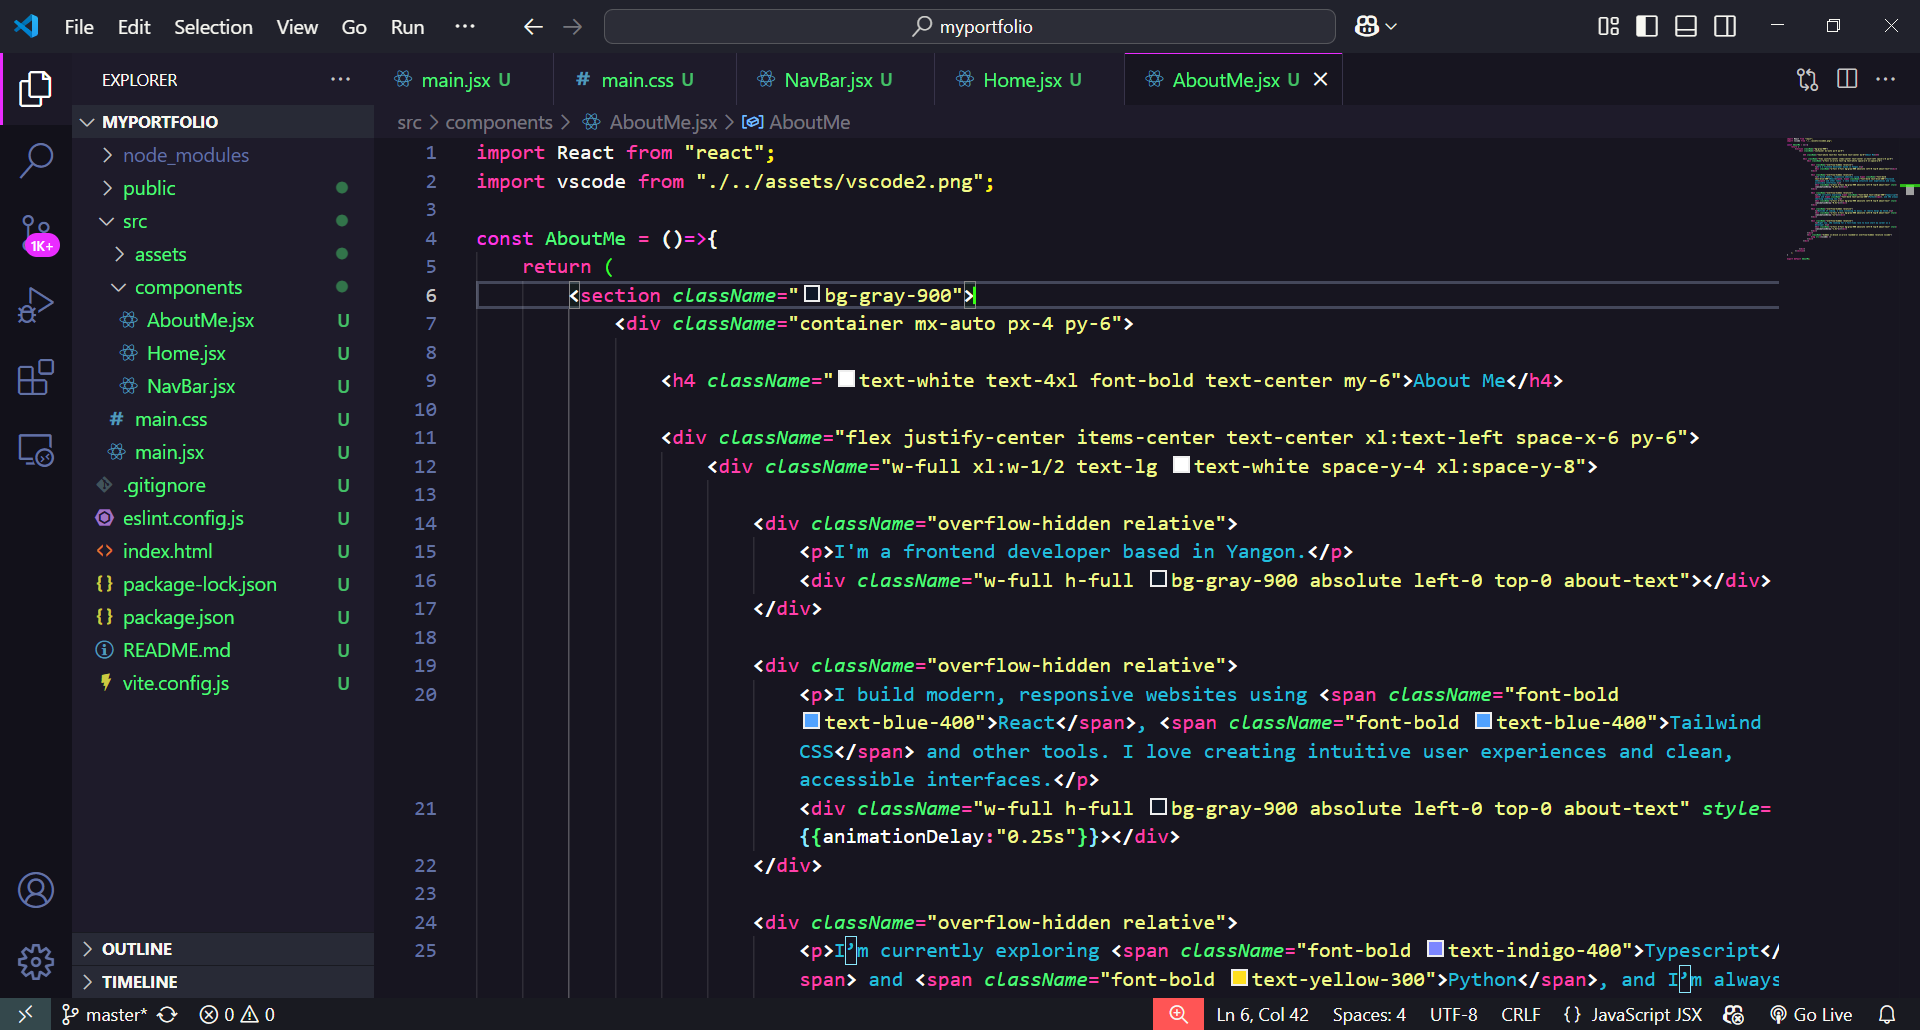
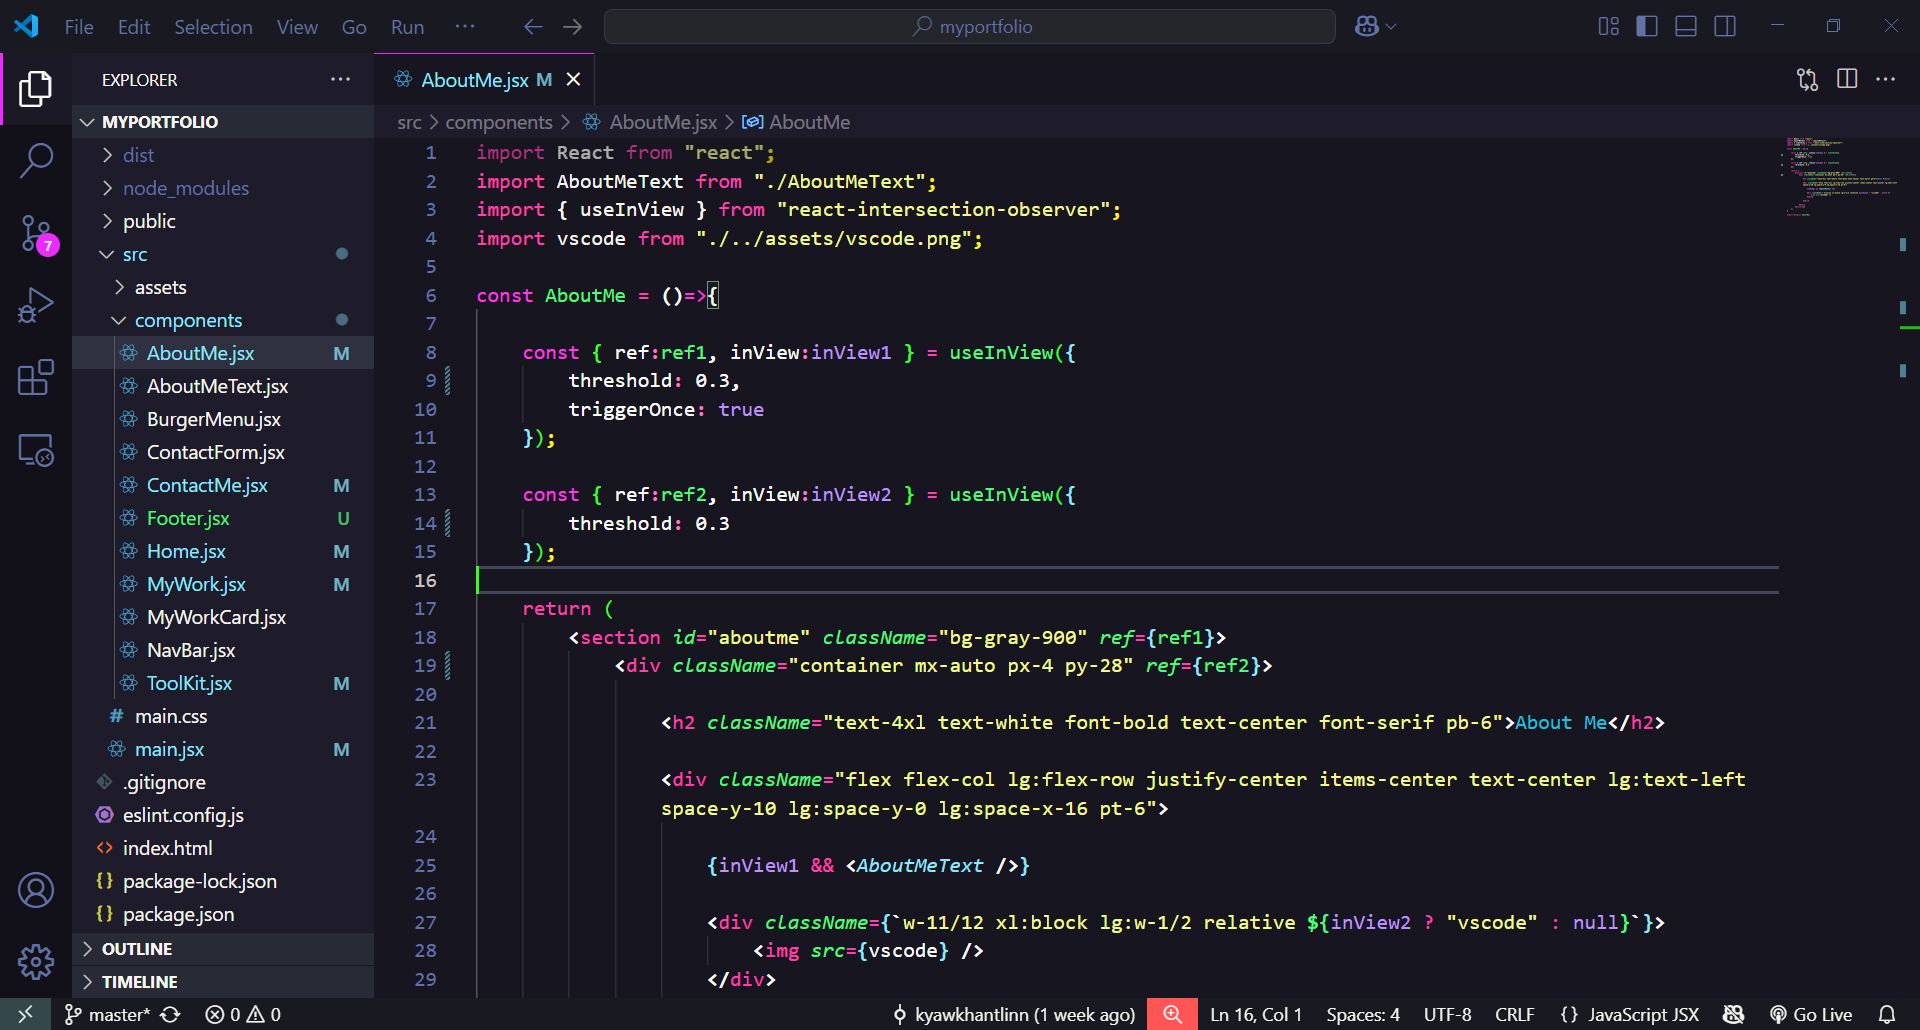
version 1.0 completed

diff --git a/src/components/ContactMe.jsx b/src/components/ContactMe.jsx
@@ -7,11 +7,11 @@ import { faFacebookMessenger,faTelegram,faViber } from '@fortawesome/free-brands
 const ContactMe = ()=>{
     return (
         <section id="contactme" className="bg-gray-300">
-            <div className="container mx-auto p-8 pb-16">
+            <div className="container mx-auto p-8 py-28">
 
                 <div className="text-gray-800 text-center">
                     <h3 className="text-4xl font-bold py-4 font-serif">Let's connect!</h3>
-                    <p className="text-lg">Have an idea, opportunity, or feedback? I'd love to hear from you!</p>
+                    <p>Have an idea, opportunity, or feedback? I'd love to hear from you!</p>
                 </div>
 
                 <div className="flex justify-center items-center pt-8">
@@ -19,15 +19,15 @@ const ContactMe = ()=>{
                         <h3 className="text-3xl text-center text-white font-semibold bg-purple-700 py-4 mb-4">Contact Me</h3>
                         <ContactForm />
                         <div className="flex justify-center items-center py-4 pb-10">
-                            <ul className="w-1/2 flex justify-around items-center">
+                            <ul className="w-4/5 md:w-1/2 flex justify-around items-center">
                                 <li>
-                                    <a href="https://m.me/austin.garrix.2025" target="_blank" className="text-2xl text-white bg-sky-500 rounded-full cursor-pointer hover:bg-sky-600 px-3 py-2"><FontAwesomeIcon icon={faFacebookMessenger} /></a>
+                                    <a href="https://m.me/austin.garrix.2025" target="_blank" className="text-2xl text-white bg-sky-500 rounded-full hover:bg-sky-600 px-3 py-2"><FontAwesomeIcon icon={faFacebookMessenger} /></a>
                                 </li>
                                 <li>
-                                    <a href="https://t.me/AustinTheGoatxD" target="_blank" className="text-2xl text-white bg-teal-500 rounded-full cursor-pointer hover:bg-teal-600 px-3 py-2"><FontAwesomeIcon icon={faTelegram} /></a>
+                                    <a href="https://t.me/AustinTheGoatxD" target="_blank" className="text-2xl text-white bg-teal-500 rounded-full hover:bg-teal-600 px-3 py-2"><FontAwesomeIcon icon={faTelegram} /></a>
                                 </li>
                                 <li>
-                                    <a href="viber://chat?number=%2B959780319178" target="_blank" className="text-2xl text-white bg-purple-500 rounded-full cursor-pointer hover:bg-purple-600 px-3 py-2"><FontAwesomeIcon icon={faViber} /></a>
+                                    <a href="viber://chat?number=%2B959780319178" target="_blank" className="text-2xl text-white bg-purple-500 rounded-full hover:bg-purple-600 px-3 py-2"><FontAwesomeIcon icon={faViber} /></a>
                                 </li>
                             </ul>
                         </div>

diff --git a/src/components/Footer.jsx b/src/components/Footer.jsx
@@ -1,0 +1,52 @@
+import React from "react";
+
+import { FontAwesomeIcon } from '@fortawesome/react-fontawesome';
+import { faGithub,faFacebook,faTelegram,faViber } from '@fortawesome/free-brands-svg-icons';
+
+const Footer = ()=>{
+
+    let date = new Date().getUTCFullYear();
+    // console.log(date);
+
+    return (
+        <section className="bg-stone-900">
+            <div className="container mx-auto py-10">
+
+                <div className="w-full flex flex-col md:flex-row justify-between items-center">
+
+                    <ul className="w-full md:w-1/2 lg:w-2/3 flex flex-col lg:flex-row justify-around items-center space-y-4 lg:space-y-0 pb-6 lg:pb-0">
+
+                        <li><a href="#home" className="text-gray-300 hover:text-green-500 transition duration-200 px-4 py-2">Home</a></li>
+
+                        <li><a href="#aboutme" className="text-gray-300 hover:text-green-500 transition duration-200 px-4 py-2">About Me</a></li>
+
+                        <li><a href="#toolkit" className="text-gray-300 hover:text-green-500 transition duration-200 px-4 py-2">My Toolkit</a></li>
+
+                        <li><a href="#mywork" className="text-gray-300 hover:text-green-500 transition duration-200 px-4 py-2">My Work</a></li>
+
+                        <li><a href="#contactme" className="text-gray-300 hover:text-green-500 transition duration-200 px-4 py-2">Contact Me</a></li>
+
+                    </ul>
+
+                    <ul className="w-1/2 lg:w-1/6 flex justify-around items-center">
+
+                        <li><a href="https://github.com/kyawkhantlinn" className="text-2xl text-gray-300 hover:text-blue-500 transition duration-200 px-4 py-2"><FontAwesomeIcon icon={faGithub} /></a></li>
+
+                        <li><a href="https://www.facebook.com/profile.php?id=100051607762245&mibextid=ZbWKwL" className="text-2xl text-gray-300 hover:text-blue-500 transition duration-200 px-4 py-2"><FontAwesomeIcon icon={faFacebook} /></a></li>
+
+                        <li><a href="https://t.me/AustinTheGoatxD" className="text-2xl text-gray-300 hover:text-blue-500 transition duration-200 px-4 py-2"><FontAwesomeIcon icon={faTelegram} /></a></li>
+
+                        <li><a href="viber://chat?number=%2B959780319178" className="text-2xl text-gray-300 hover:text-blue-500 transition duration-200 px-4 py-2"><FontAwesomeIcon icon={faViber} /></a></li>
+                                                
+                    </ul>
+
+                </div>
+
+                <p className="text-lg text-gray-300 text-center pt-12">&copy; {date} Austin — Built with React & Tailwind</p>
+
+            </div>
+        </section>
+    );
+}
+
+export default Footer;

diff --git a/src/components/Home.jsx b/src/components/Home.jsx
@@ -13,7 +13,7 @@ const Home = ()=>{
                     <img src={avatar} />
                 </div>
                 <div className="w-full md:w-1/2 space-y-10 mx-auto py-6 intro">
-                    <h1 className="xl:text-4xl text-3xl text-white text-center font-bold">Hi. I'm Kyaw Khant Linn. 👋</h1>
+                    <h1 className="xl:text-4xl text-3xl text-white text-center font-bold">Hi! I'm Kyaw Khant Linn. 👋</h1>
                     <p className="lg:text-xl text-center text-gray-200">I’m a frontend developer with a keen eye for detail and a strong focus on user experience. I care about performance, accessibility, and writing clean, maintainable code. My go-to stack includes <span className="text-blue-400 font-bold">React</span>, <span className="text-blue-400 font-bold">Tailwind CSS</span>, and a sprinkle of animation magic.</p>
                 </div>
 

diff --git a/src/components/AboutMe.jsx b/src/components/AboutMe.jsx
@@ -6,17 +6,17 @@ import vscode from "./../assets/vscode.png";
 const AboutMe = ()=>{
 
     const { ref:ref1, inView:inView1 } = useInView({
-        threshold: 0.5,
+        threshold: 0.3,
         triggerOnce: true
     });
 
     const { ref:ref2, inView:inView2 } = useInView({
-        threshold: 0.5
+        threshold: 0.3
     });
 
     return (
         <section id="aboutme" className="bg-gray-900" ref={ref1}>
-            <div className="container mx-auto px-4 py-12" ref={ref2}>
+            <div className="container mx-auto px-4 py-28" ref={ref2}>
 
                 <h2 className="text-4xl text-white font-bold text-center font-serif pb-6">About Me</h2>
 

diff --git a/src/components/MyWork.jsx b/src/components/MyWork.jsx
@@ -19,7 +19,7 @@ const MyWork = ()=>{
 
     return (
         <section id="mywork" style={{backgroundImage:`url(${bg})`,backgroundSize:"cover",backgroundPosition:"center",backgroundAttachment:"fixed"}}>
-            <div className="px-4 py-12" style={{backgroundColor:"rgba(0,0,0,0.3)"}}>
+            <div className="px-4 py-28" style={{backgroundColor:"rgba(0,0,0,0.3)"}}>
 
                 <div className="text-center pb-6">
                     <h2 className="text-4xl text-white font-bold font-serif pb-4">My Work</h2>

diff --git a/src/main.jsx b/src/main.jsx
@@ -7,6 +7,7 @@ import AboutMe from "./components/AboutMe.jsx";
 import Toolkit from './components/ToolKit.jsx';
 import MyWork from './components/MyWork.jsx';
 import ContactMe from './components/ContactMe.jsx';
+import Footer from "./components/Footer.jsx";
 
 createRoot(document.getElementById('root')).render(
   <div>
@@ -16,5 +17,6 @@ createRoot(document.getElementById('root')).render(
     <Toolkit />
     <MyWork />
     <ContactMe />
+    <Footer />
   </div>,
 )

diff --git a/src/components/ToolKit.jsx b/src/components/ToolKit.jsx
@@ -17,7 +17,7 @@ import Python from "./../assets/images/Python.png";
 const ToolKit = ()=>{
     return (
         <section id="toolkit" className="bg-rose-900">
-            <div className="container mx-auto px-4 py-12">
+            <div className="container mx-auto px-4 py-28">
 
                 <div className="text-center pb-6">
                     <h2 className="text-4xl text-white font-bold font-serif pb-4">My Toolkit</h2>
